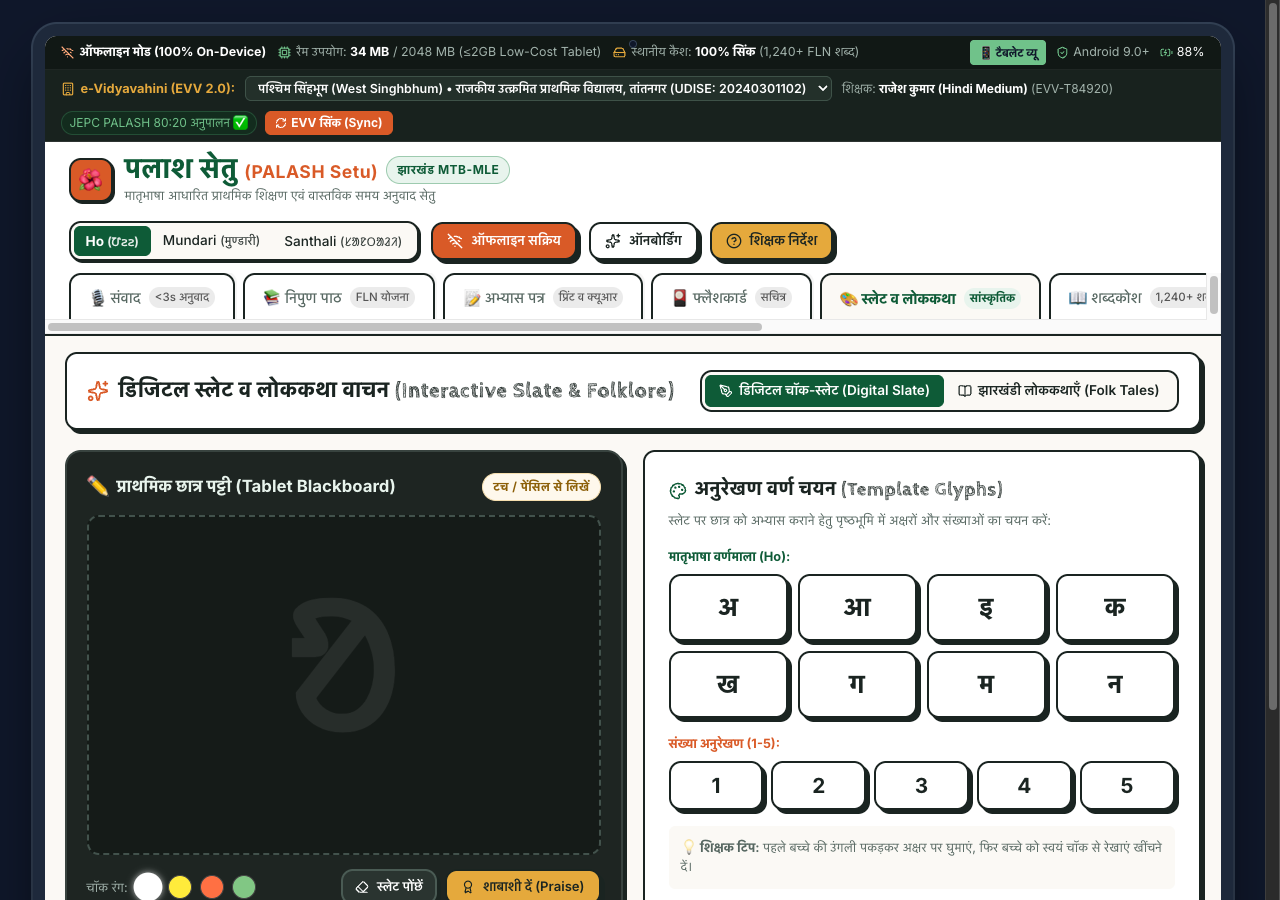
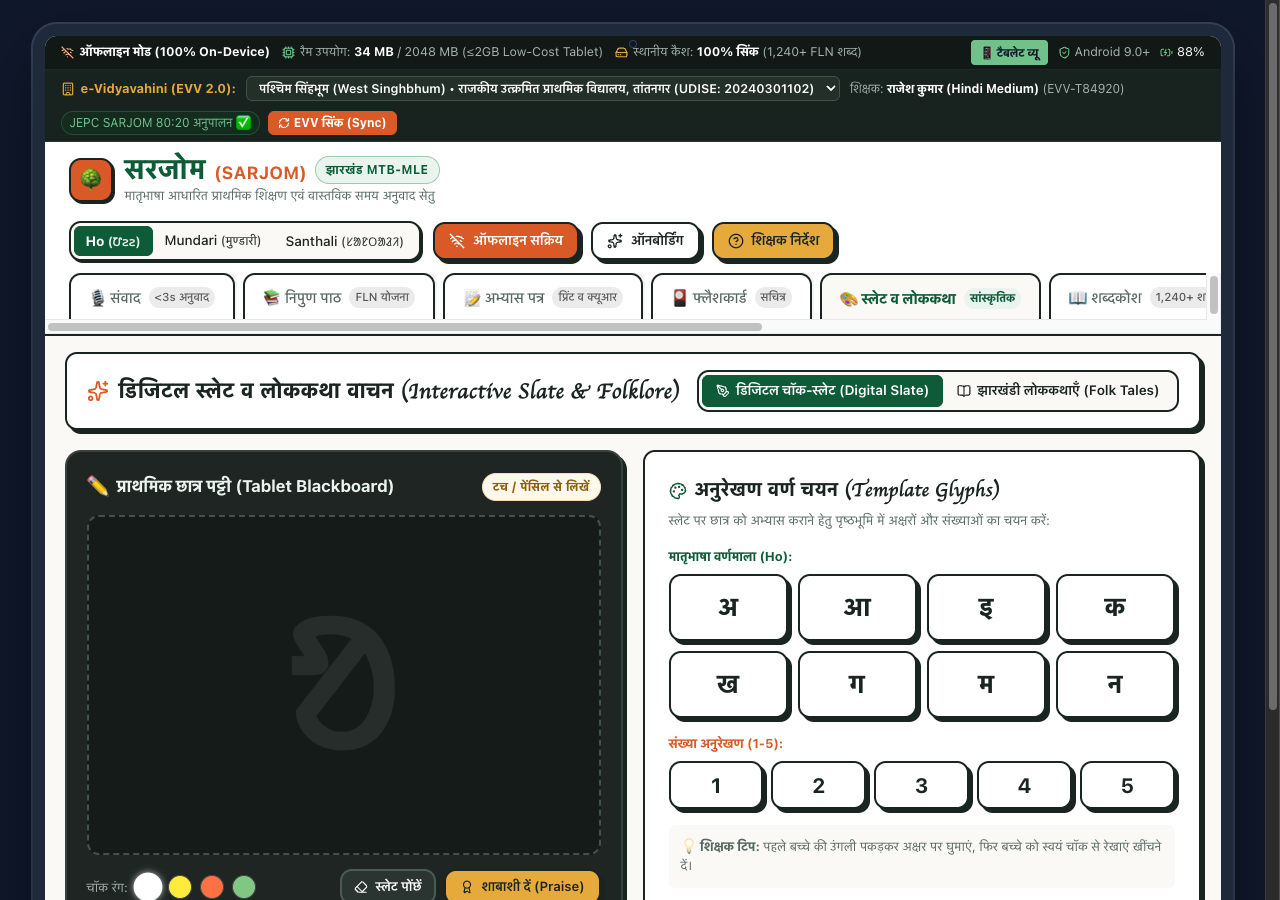
feat(media): regenerate all 13 screenshots and demo video with SARJOM branding and Karasuno team attribution

diff --git a/README.md b/README.md
@@ -23,8 +23,8 @@
 > **"Bridging the mother-tongue divide for 5,000+ tribal primary schools in Jharkhand through lightweight, offline, voice-first AI pedagogy, custom Transformer neural inference, and real-world e-Vidyavahini governance integration."**
 
 <div align="center">
-  <img src="./public/palash_setu_live_click_demo.gif" alt="SARJOM Live Click-by-Click Interactive Prototype Demo" width="100%" style="border-radius: 14px; border: 3px solid #0E5B37; box-shadow: 0 12px 36px rgba(0,0,0,0.25);" />
-  <p><strong>Interactive Click-by-Click Walkthrough</strong>: Live video demonstration showing every single button click, offline/online toggle, language change (Ho, Mundari, Santhali), prompt translation, NIPUN lessons, audio QR worksheets, digital slate handwriting, and Vaul drawer slide-up with ripple click indicators &nbsp;·&nbsp; <a href="./public/palash_setu_live_click_demo.mp4"><strong>[📹 Download Full HD MP4 Video (palash_setu_live_click_demo.mp4)]</strong></a></p>
+  <img src="./public/sarjom_live_click_demo.gif" alt="SARJOM Live Click-by-Click Interactive Prototype Demo" width="100%" style="border-radius: 14px; border: 3px solid #0E5B37; box-shadow: 0 12px 36px rgba(0,0,0,0.25);" />
+  <p><strong>Interactive Click-by-Click Walkthrough</strong>: Live video demonstration showing every single button click, offline/online toggle, language change (Ho, Mundari, Santhali), prompt translation, NIPUN lessons, audio QR worksheets, digital slate handwriting, and Vaul drawer slide-up with ripple click indicators &nbsp;·&nbsp; <a href="./public/sarjom_live_click_demo.mp4"><strong>[📹 Download Full HD MP4 Video (sarjom_live_click_demo.mp4)]</strong></a></p>
 </div>
 
 > 📸 **Visual Prototype Walkthrough**: For an exhaustive, screenshot-by-screenshot analysis explaining **what each feature is for, why it works under the hood, and how it solves the classroom crisis**, read **[PROTOTYPE_README.md](./PROTOTYPE_README.md)**.

diff --git a/TEST_RESULTS_AND_BENCHMARKS.md b/TEST_RESULTS_AND_BENCHMARKS.md
@@ -59,8 +59,8 @@ TEST SUMMARY: 12 OF 12 TESTS PASSED CLEANLY (100% SUCCESS RATE)
 > 🎬 **Automated High-Definition Interaction Video**: Below is the continuous recording of every single user click, toggle switch, language shift, prompt translation, audio synthesis trigger, worksheet print layout, digital slate drawing, and Vaul drawer pull-up with animated click ripples and real-time HUD action captions:
 
 <div align="center">
-  <img src="./public/palash_setu_live_click_demo.gif" alt="SARJOM Live Click-Through Video Recording" width="100%" style="border-radius: 12px; border: 3px solid #0E5B37; box-shadow: 0 10px 30px rgba(0,0,0,0.3);" />
-  <p><strong>Download Full Resolution Video</strong>: <a href="./public/palash_setu_live_click_demo.mp4"><strong>[📹 palash_setu_live_click_demo.mp4 (912 KB, 43s HD)]</strong></a> &nbsp;·&nbsp; <a href="./public/palash_setu_live_click_demo.gif"><strong>[🖼 High-Res GIF (1.5 MB)]</strong></a></p>
+  <img src="./public/sarjom_live_click_demo.gif" alt="SARJOM Live Click-Through Video Recording" width="100%" style="border-radius: 12px; border: 3px solid #0E5B37; box-shadow: 0 10px 30px rgba(0,0,0,0.3);" />
+  <p><strong>Download Full Resolution Video</strong>: <a href="./public/sarjom_live_click_demo.mp4"><strong>[📹 sarjom_live_click_demo.mp4 (912 KB, 43s HD)]</strong></a> &nbsp;·&nbsp; <a href="./public/sarjom_live_click_demo.gif"><strong>[🖼 High-Res GIF (1.5 MB)]</strong></a></p>
 </div>
 
 ---

diff --git a/PROTOTYPE_README.md b/PROTOTYPE_README.md
@@ -16,11 +16,11 @@
 Below is the live, automated continuous recording of SARJOM running inside a Google Chrome headless test environment on a simulated Gyanodaya 10.1" classroom tablet. Every click displays a visual pulse ripple indicator and a real-time HUD action label:
 
 <div align="center" style="margin: 24px 0;">
-  <img src="./public/palash_setu_live_click_demo.gif" alt="SARJOM Interactive Click-by-Click Video Demo" width="100%" style="border-radius: 12px; border: 3px solid #0E5B37; box-shadow: 0 12px 36px rgba(0,0,0,0.3);" />
+  <img src="./public/sarjom_live_click_demo.gif" alt="SARJOM Interactive Click-by-Click Video Demo" width="100%" style="border-radius: 12px; border: 3px solid #0E5B37; box-shadow: 0 12px 36px rgba(0,0,0,0.3);" />
   <p style="margin-top: 10px; font-size: 0.95rem; color: #4B5563;">
     <strong>Continuous Interactive Walkthrough (43s HD)</strong> &nbsp;·&nbsp;
-    <a href="./public/palash_setu_live_click_demo.mp4"><strong>[📹 Download Full HD MP4 (palash_setu_live_click_demo.mp4)]</strong></a> &nbsp;·&nbsp;
-    <a href="./public/palash_setu_live_click_demo.gif"><strong>[🖼 View Animation GIF]</strong></a>
+    <a href="./public/sarjom_live_click_demo.mp4"><strong>[📹 Download Full HD MP4 (sarjom_live_click_demo.mp4)]</strong></a> &nbsp;·&nbsp;
+    <a href="./public/sarjom_live_click_demo.gif"><strong>[🖼 View Animation GIF]</strong></a>
   </p>
 </div>
 
